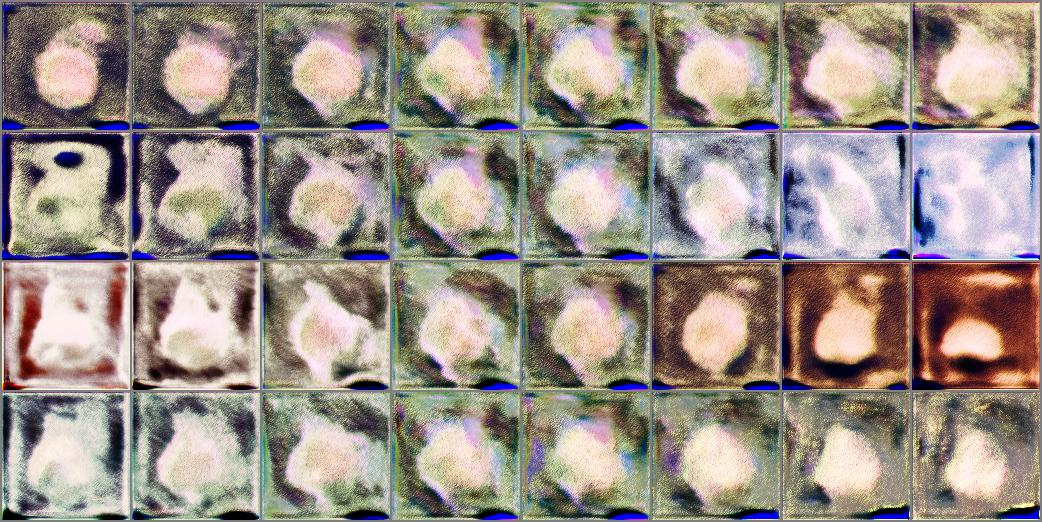
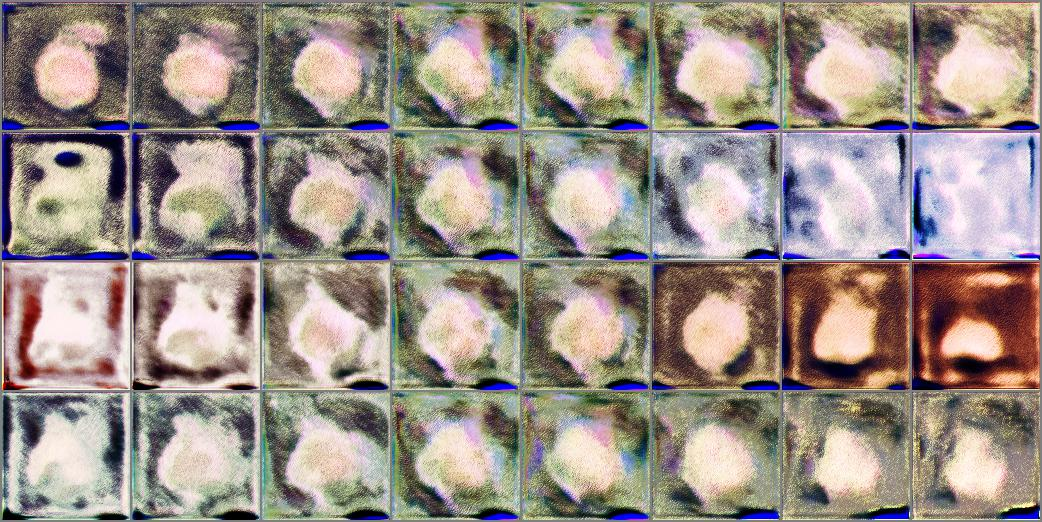
averaging

diff --git a/main.py b/main.py
@@ -143,6 +143,7 @@ if __name__ == '__main__':
         S.load_state_dict(torch.load(S_load_path))
         G.load_state_dict(torch.load(G_load_path))
         D.load_state_dict(torch.load(D_load_path))
+        cp_module(G, G_average)
         print('loading complete!')
     if torch.cuda.device_count() > 1 and use_multi_gpu:
         print('Using ', torch.cuda.device_count(), 'GPUs...')
@@ -274,6 +275,6 @@ if __name__ == '__main__':
                 if int(index) % save_freq == 0:
                     weight_save_path = save_path + '_weight/'
                     torch.save(S.state_dict(), weight_save_path + index + 'S.pt')
-                    torch.save(G.state_dict(), weight_save_path + index +  'G.pt')
+                    torch.save(G_average.state_dict(), weight_save_path + index +  'G.pt')
                     torch.save(D.state_dict(), weight_save_path + index + 'D.pt')
             step_cnt += 1
